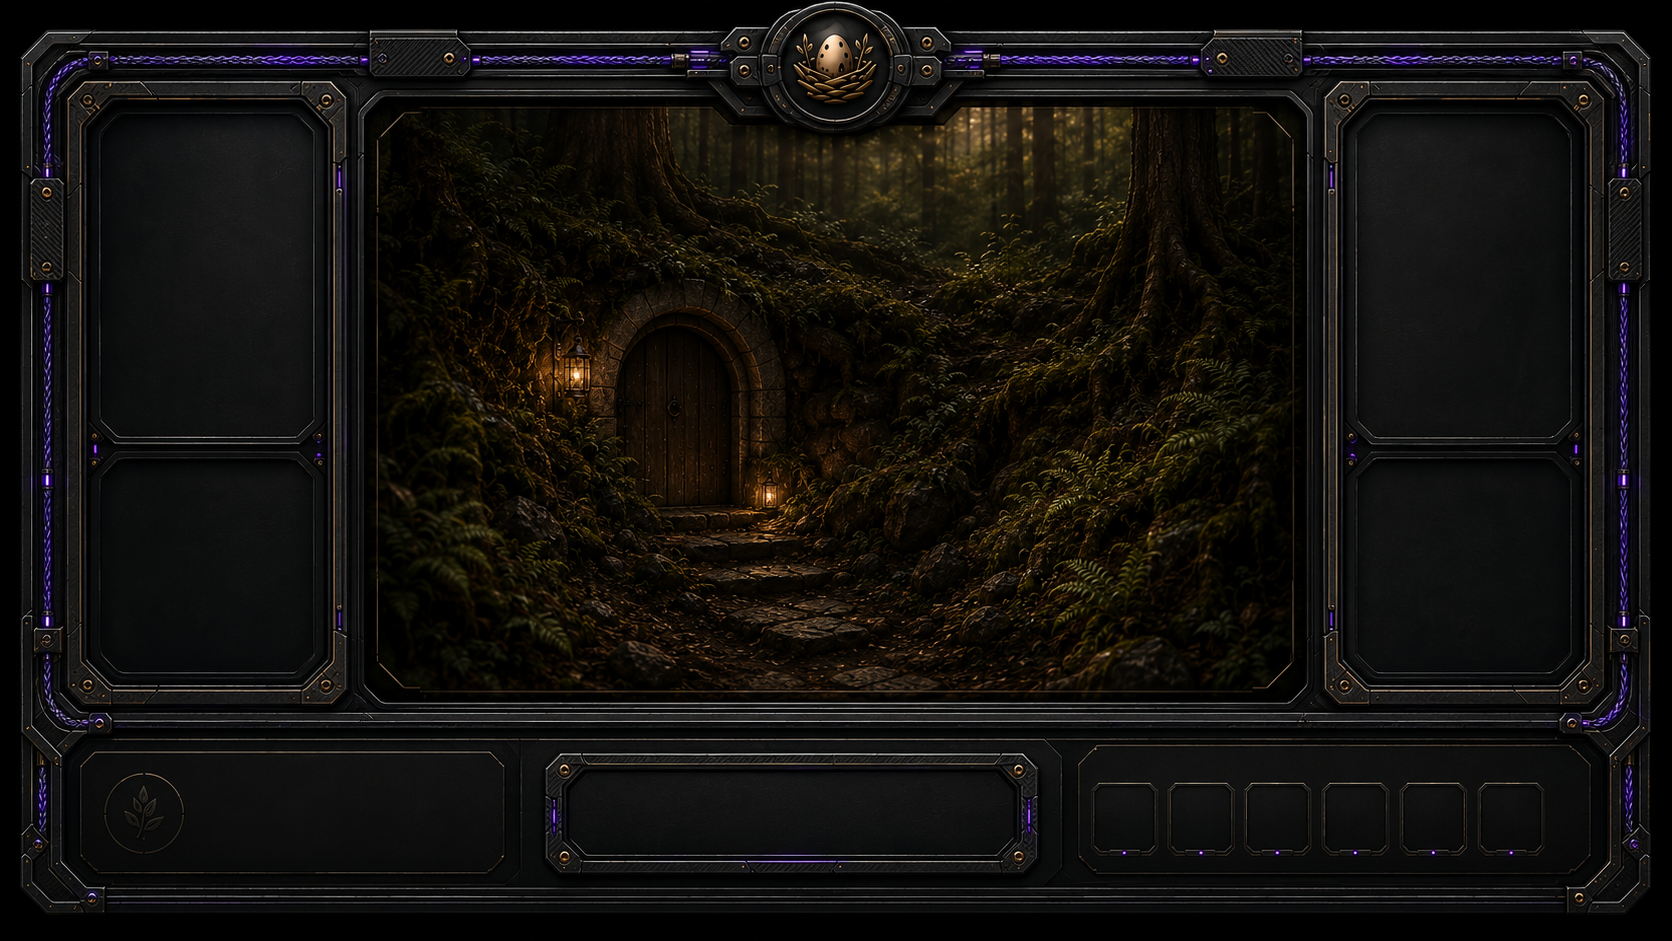
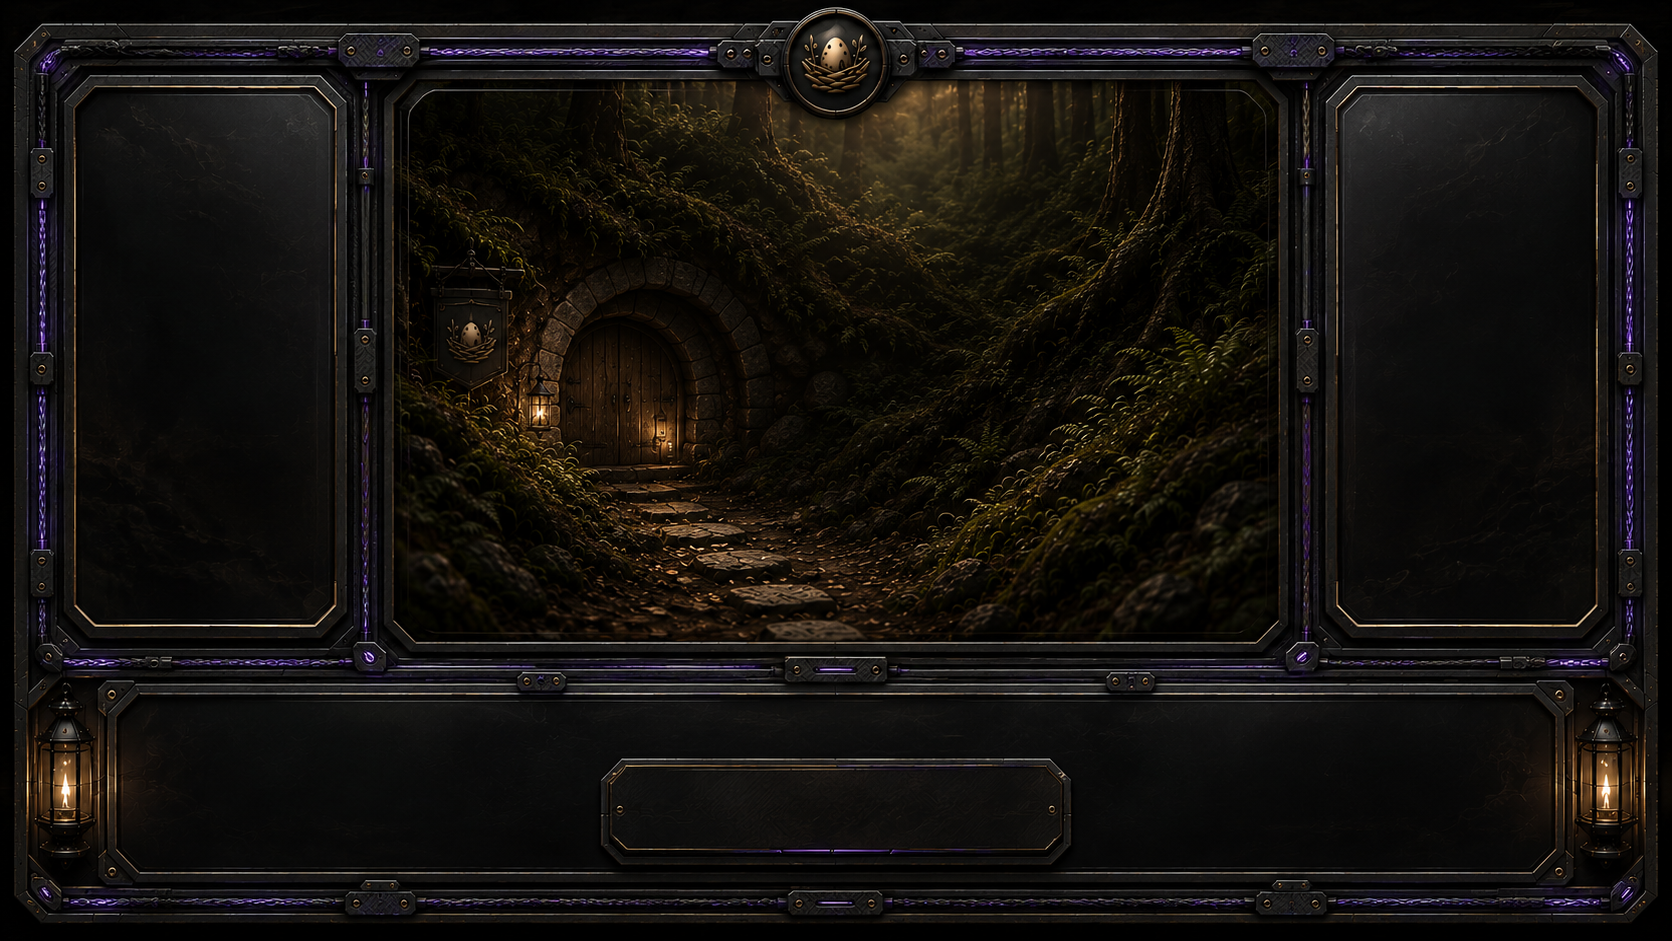
Welcome Background fix

Changed region(s): [[0.0, 0.0, 0.9952, 0.9862], [0.2799, 0.1541, 0.311, 0.1849]]

diff --git a/css/welcome.css b/css/welcome.css
@@ -4,12 +4,10 @@
   --bronze: #d2a15f;
   --purple: #8d55ff;
   --green: #48d45d;
-  --shadow: rgba(0, 0, 0, .72);
+  --shadow: rgba(0, 0, 0, .78);
 }
 
-* {
-  box-sizing: border-box;
-}
+* { box-sizing: border-box; }
 
 html,
 body {
@@ -20,9 +18,7 @@ body {
   font-family: Inter, system-ui, -apple-system, BlinkMacSystemFont, "Segoe UI", sans-serif;
 }
 
-body {
-  overflow-x: hidden;
-}
+body { overflow-x: hidden; }
 
 .welcome-page {
   position: relative;
@@ -43,7 +39,6 @@ body {
   pointer-events: none;
 }
 
-/* Shared text treatment */
 h1,
 h2,
 .eyebrow,
@@ -55,96 +50,98 @@ h2,
   font-weight: 500;
 }
 
-p {
-  margin: 0;
-  line-height: 1.45;
-}
+p { margin: 0; line-height: 1.42; }
+a { color: inherit; text-decoration: none; }
 
-a {
-  color: inherit;
-  text-decoration: none;
-}
-
-/* Center text sits over the empty central background plate */
 .welcome-copy {
   position: absolute;
-  left: 33.6%;
-  top: 18.4%;
-  width: 33%;
+  left: 29.8%;
+  top: 14.7%;
+  width: 40.4%;
   text-align: center;
-  text-shadow: 0 3px 12px var(--shadow);
+  text-shadow: 0 4px 14px var(--shadow), 0 0 22px rgba(0,0,0,.65);
 }
 
 .welcome-copy .eyebrow {
   text-transform: uppercase;
   color: var(--bronze);
-  font-size: clamp(.55rem, 1vw, 1rem);
-  letter-spacing: .28em;
-  margin-bottom: .45em;
+  font-size: clamp(.55rem, .88vw, .95rem);
+  letter-spacing: .3em;
+  margin-bottom: .35em;
 }
 
 .welcome-copy h1 {
   text-transform: uppercase;
-  font-size: clamp(2rem, 4.15vw, 4.7rem);
+  font-size: clamp(2rem, 3.7vw, 4.35rem);
   line-height: .95;
-  margin: 0 0 .36em;
+  margin: 0 0 .32em;
 }
 
 .welcome-copy .tagline {
   font-family: Georgia, "Times New Roman", serif;
-  font-size: clamp(.9rem, 1.35vw, 1.55rem);
-  color: var(--cream);
-  margin-bottom: .95em;
+  font-size: clamp(.85rem, 1.18vw, 1.45rem);
+  margin-bottom: .75em;
 }
 
 .welcome-copy .intro {
-  color: rgba(239, 226, 202, .86);
-  font-size: clamp(.64rem, .92vw, 1.05rem);
   max-width: 520px;
   margin: 0 auto;
+  color: rgba(239, 226, 202, .84);
+  font-size: clamp(.58rem, .8vw, .95rem);
 }
 
-/* Left panel */
-.twitch-card {
+.twitch-card,
+.discord-card {
   position: absolute;
-  left: 5.9%;
-  top: 16.4%;
-  width: 13.7%;
-  height: 49.5%;
-  text-align: center;
+  top: 10.2%;
+  height: 57.6%;
   display: flex;
   flex-direction: column;
   align-items: center;
-  padding-top: 2.2%;
-  text-shadow: 0 3px 9px var(--shadow);
+  text-align: center;
+  padding-top: 2.65%;
+  text-shadow: 0 3px 10px var(--shadow);
+}
+
+.twitch-card {
+  left: 5.25%;
+  width: 14.8%;
+}
+
+.discord-card {
+  right: 5.25%;
+  width: 14.8%;
 }
 
 .panel-label {
   color: var(--bronze);
   text-transform: uppercase;
-  font-size: clamp(.5rem, .78vw, .86rem);
+  font-size: clamp(.48rem, .66vw, .78rem);
   letter-spacing: .18em;
 }
 
 .icon-mark {
-  margin-top: 11%;
+  margin-top: 10%;
   display: grid;
   place-items: center;
-  width: clamp(42px, 5vw, 82px);
-  height: clamp(42px, 5vw, 82px);
+  width: clamp(40px, 4.4vw, 74px);
+  height: clamp(40px, 4.4vw, 74px);
   color: var(--purple);
-  font-size: clamp(1.7rem, 3.3vw, 3.8rem);
+  font-size: clamp(1.55rem, 2.75vw, 3.25rem);
   filter: drop-shadow(0 0 8px rgba(141, 85, 255, .65));
 }
 
-.twitch-card h2 {
-  margin: 8% 0 4%;
-  font-size: clamp(.95rem, 1.42vw, 1.65rem);
+.discord-card .icon-mark { color: #819bff; }
+
+.twitch-card h2,
+.discord-card h2 {
+  margin: 7% 0 4%;
+  font-size: clamp(.86rem, 1.18vw, 1.42rem);
 }
 
 .live-line {
   color: var(--green);
-  font-size: clamp(.58rem, .9vw, 1rem);
+  font-size: clamp(.54rem, .74vw, .88rem);
 }
 
 .live-line span {
@@ -158,63 +155,32 @@ a {
 }
 
 .stat-row {
-  margin-top: 14%;
+  margin-top: 12%;
   display: grid;
   gap: .1em;
-  color: var(--cream);
 }
 
 .stat-row strong {
   font-family: Georgia, "Times New Roman", serif;
-  font-size: clamp(.92rem, 1.35vw, 1.55rem);
+  font-size: clamp(.9rem, 1.17vw, 1.42rem);
   font-weight: 500;
 }
 
 .stat-row small,
-.stream-title {
-  color: var(--muted);
-  font-size: clamp(.55rem, .82vw, .95rem);
-}
-
-.stream-title {
-  margin-top: 11%;
-}
-
-/* Right panel */
-.discord-card {
-  position: absolute;
-  right: 6.5%;
-  top: 16.4%;
-  width: 13.3%;
-  height: 49.5%;
-  text-align: center;
-  display: flex;
-  flex-direction: column;
-  align-items: center;
-  padding-top: 2.2%;
-  text-shadow: 0 3px 9px var(--shadow);
-}
-
-.discord-card .icon-mark {
-  color: #819bff;
-}
-
-.discord-card h2 {
-  margin: 14% 0 12%;
-  font-size: clamp(.9rem, 1.32vw, 1.5rem);
-}
-
+.stream-title,
 .discord-card p:not(.panel-label) {
   color: var(--muted);
-  font-size: clamp(.55rem, .78vw, .9rem);
-  margin-bottom: 8%;
+  font-size: clamp(.52rem, .7vw, .86rem);
 }
 
-/* Buttons */
+.stream-title { margin-top: 10%; }
+.discord-card h2 { margin-top: 12%; margin-bottom: 10%; }
+.discord-card p:not(.panel-label) { margin-bottom: 7%; }
+
 .plate-button {
   margin-top: auto;
-  margin-bottom: 13%;
-  width: 78%;
+  margin-bottom: 12%;
+  width: 76%;
   min-height: 8%;
   display: flex;
   align-items: center;
@@ -222,10 +188,10 @@ a {
   gap: .8em;
   color: var(--cream);
   text-transform: uppercase;
-  font-size: clamp(.48rem, .68vw, .8rem);
+  font-size: clamp(.44rem, .58vw, .72rem);
   letter-spacing: .12em;
   border: 1px solid rgba(210, 161, 95, .45);
-  background: rgba(8, 7, 6, .5);
+  background: rgba(8, 7, 6, .48);
   box-shadow: 0 8px 18px rgba(0,0,0,.35);
 }
 
@@ -235,70 +201,67 @@ a {
   color: #fff4df;
 }
 
-/* Bottom panels */
 .home-note {
   position: absolute;
-  left: 13.5%;
-  bottom: 15.8%;
-  width: 14.5%;
+  left: 8.3%;
+  bottom: 10.8%;
+  width: 20.4%;
   color: var(--muted);
-  font-size: clamp(.56rem, .83vw, .95rem);
+  font-size: clamp(.56rem, .76vw, .9rem);
   text-shadow: 0 3px 9px var(--shadow);
 }
 
-.home-note p {
-  margin-bottom: .5em;
-}
+.home-note p { margin-bottom: .44em; }
 
 .enter-hub {
   position: absolute;
-  left: 36.4%;
-  bottom: 11.5%;
-  width: 26.8%;
+  left: 36.45%;
+  bottom: 7.85%;
+  width: 27.1%;
   text-align: center;
-  text-shadow: 0 3px 9px var(--shadow);
+  text-shadow: 0 3px 10px var(--shadow);
 }
 
 .enter-hub p {
   color: var(--bronze);
   text-transform: uppercase;
   letter-spacing: .22em;
-  font-size: clamp(.48rem, .72vw, .82rem);
-  margin-bottom: 4.8%;
+  font-size: clamp(.43rem, .59vw, .72rem);
+  margin-bottom: 3.3%;
 }
 
 .hub-button {
-  min-height: clamp(42px, 5.3vw, 82px);
+  min-height: clamp(38px, 4.55vw, 72px);
   display: flex;
   align-items: center;
   justify-content: center;
   gap: .9em;
   color: var(--cream);
   text-transform: uppercase;
-  font-size: clamp(.8rem, 1.45vw, 1.75rem);
+  font-size: clamp(.72rem, 1.18vw, 1.45rem);
   letter-spacing: .14em;
   border: 1px solid rgba(210, 161, 95, .48);
-  background: rgba(10, 8, 6, .48);
+  background: rgba(10, 8, 6, .45);
 }
 
 .quick-links {
   position: absolute;
-  right: 6.9%;
-  bottom: 15.6%;
-  width: 28%;
+  right: 8.1%;
+  bottom: 10.9%;
+  width: 24.7%;
   display: grid;
   grid-template-columns: repeat(5, 1fr);
-  gap: 2.4%;
+  gap: 2.2%;
   text-align: center;
 }
 
 .quick-links a {
-  color: var(--bronze);
-  font-size: clamp(.42rem, .58vw, .72rem);
-  text-transform: uppercase;
-  letter-spacing: .08em;
-  padding-top: 46%;
   position: relative;
+  color: var(--bronze);
+  font-size: clamp(.4rem, .52vw, .66rem);
+  text-transform: uppercase;
+  letter-spacing: .07em;
+  padding-top: 42%;
 }
 
 .quick-links a::before {
@@ -307,19 +270,14 @@ a {
   left: 50%;
   top: 0;
   translate: -50% 0;
-  width: clamp(26px, 3.2vw, 52px);
-  height: clamp(26px, 3.2vw, 52px);
+  width: clamp(24px, 2.7vw, 48px);
+  height: clamp(24px, 2.7vw, 48px);
   border: 1px solid rgba(210, 161, 95, .42);
-  border-radius: 10px;
+  border-radius: 9px;
   background: rgba(8,7,6,.3);
 }
 
-/* Mobile fallback: keep the image visible and stack text below it */
 @media (max-width: 800px) {
-  body {
-    overflow-x: hidden;
-  }
-
   .welcome-page {
     width: 100%;
     height: auto;
@@ -350,13 +308,7 @@ a {
     border-radius: 14px;
   }
 
-  .quick-links {
-    grid-template-columns: repeat(2, 1fr);
-  }
-
+  .quick-links { grid-template-columns: repeat(2, 1fr); }
   .plate-button,
-  .hub-button {
-    margin: 1rem auto 0;
-    min-height: 44px;
-  }
+  .hub-button { margin: 1rem auto 0; min-height: 44px; }
 }